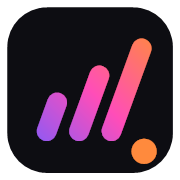
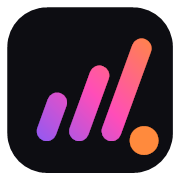
Move the orange dot back onto the bars' baseline
Overcorrected last pass -- the dot's color (orange) was right, but it
shouldn't sit below the baseline. Moved it back in line with the
bars' bottom edge and regenerated the favicon/app-icon files.

Changed region(s): [[0.6944, 0.6944, 0.8889, 0.9167]]

diff --git a/components/LogoMark.tsx b/components/LogoMark.tsx
@@ -2,7 +2,7 @@ import { useId } from "react";
 
 /**
  * The PredictCentr mark: three ascending bars (purple -> pink -> orange
- * gradient) plus a solid-orange dot sitting below their baseline. Geometry
+ * gradient) plus a solid-orange dot sitting on their baseline. Geometry
  * here is the source of truth -- app/icon.png, app/apple-icon.png, and
  * app/favicon.ico are rasterized copies of this same shape (see
  * scripts/generate-icons.ps1), so keep them in sync if this ever changes.
@@ -31,7 +31,7 @@ export function LogoMark({ size = 28, className }: { size?: number; className?: 
         <rect x="-5.5" y="-44" width="11" height="44" rx="5.5" transform="translate(42,78) rotate(20)" />
         <rect x="-5.5" y="-60" width="11" height="60" rx="5.5" transform="translate(60,78) rotate(20)" />
       </g>
-      <circle cx="80" cy="84" r="7" fill="#FF8A3D" />
+      <circle cx="80" cy="78" r="8" fill="#FF8A3D" />
     </svg>
   );
 }
